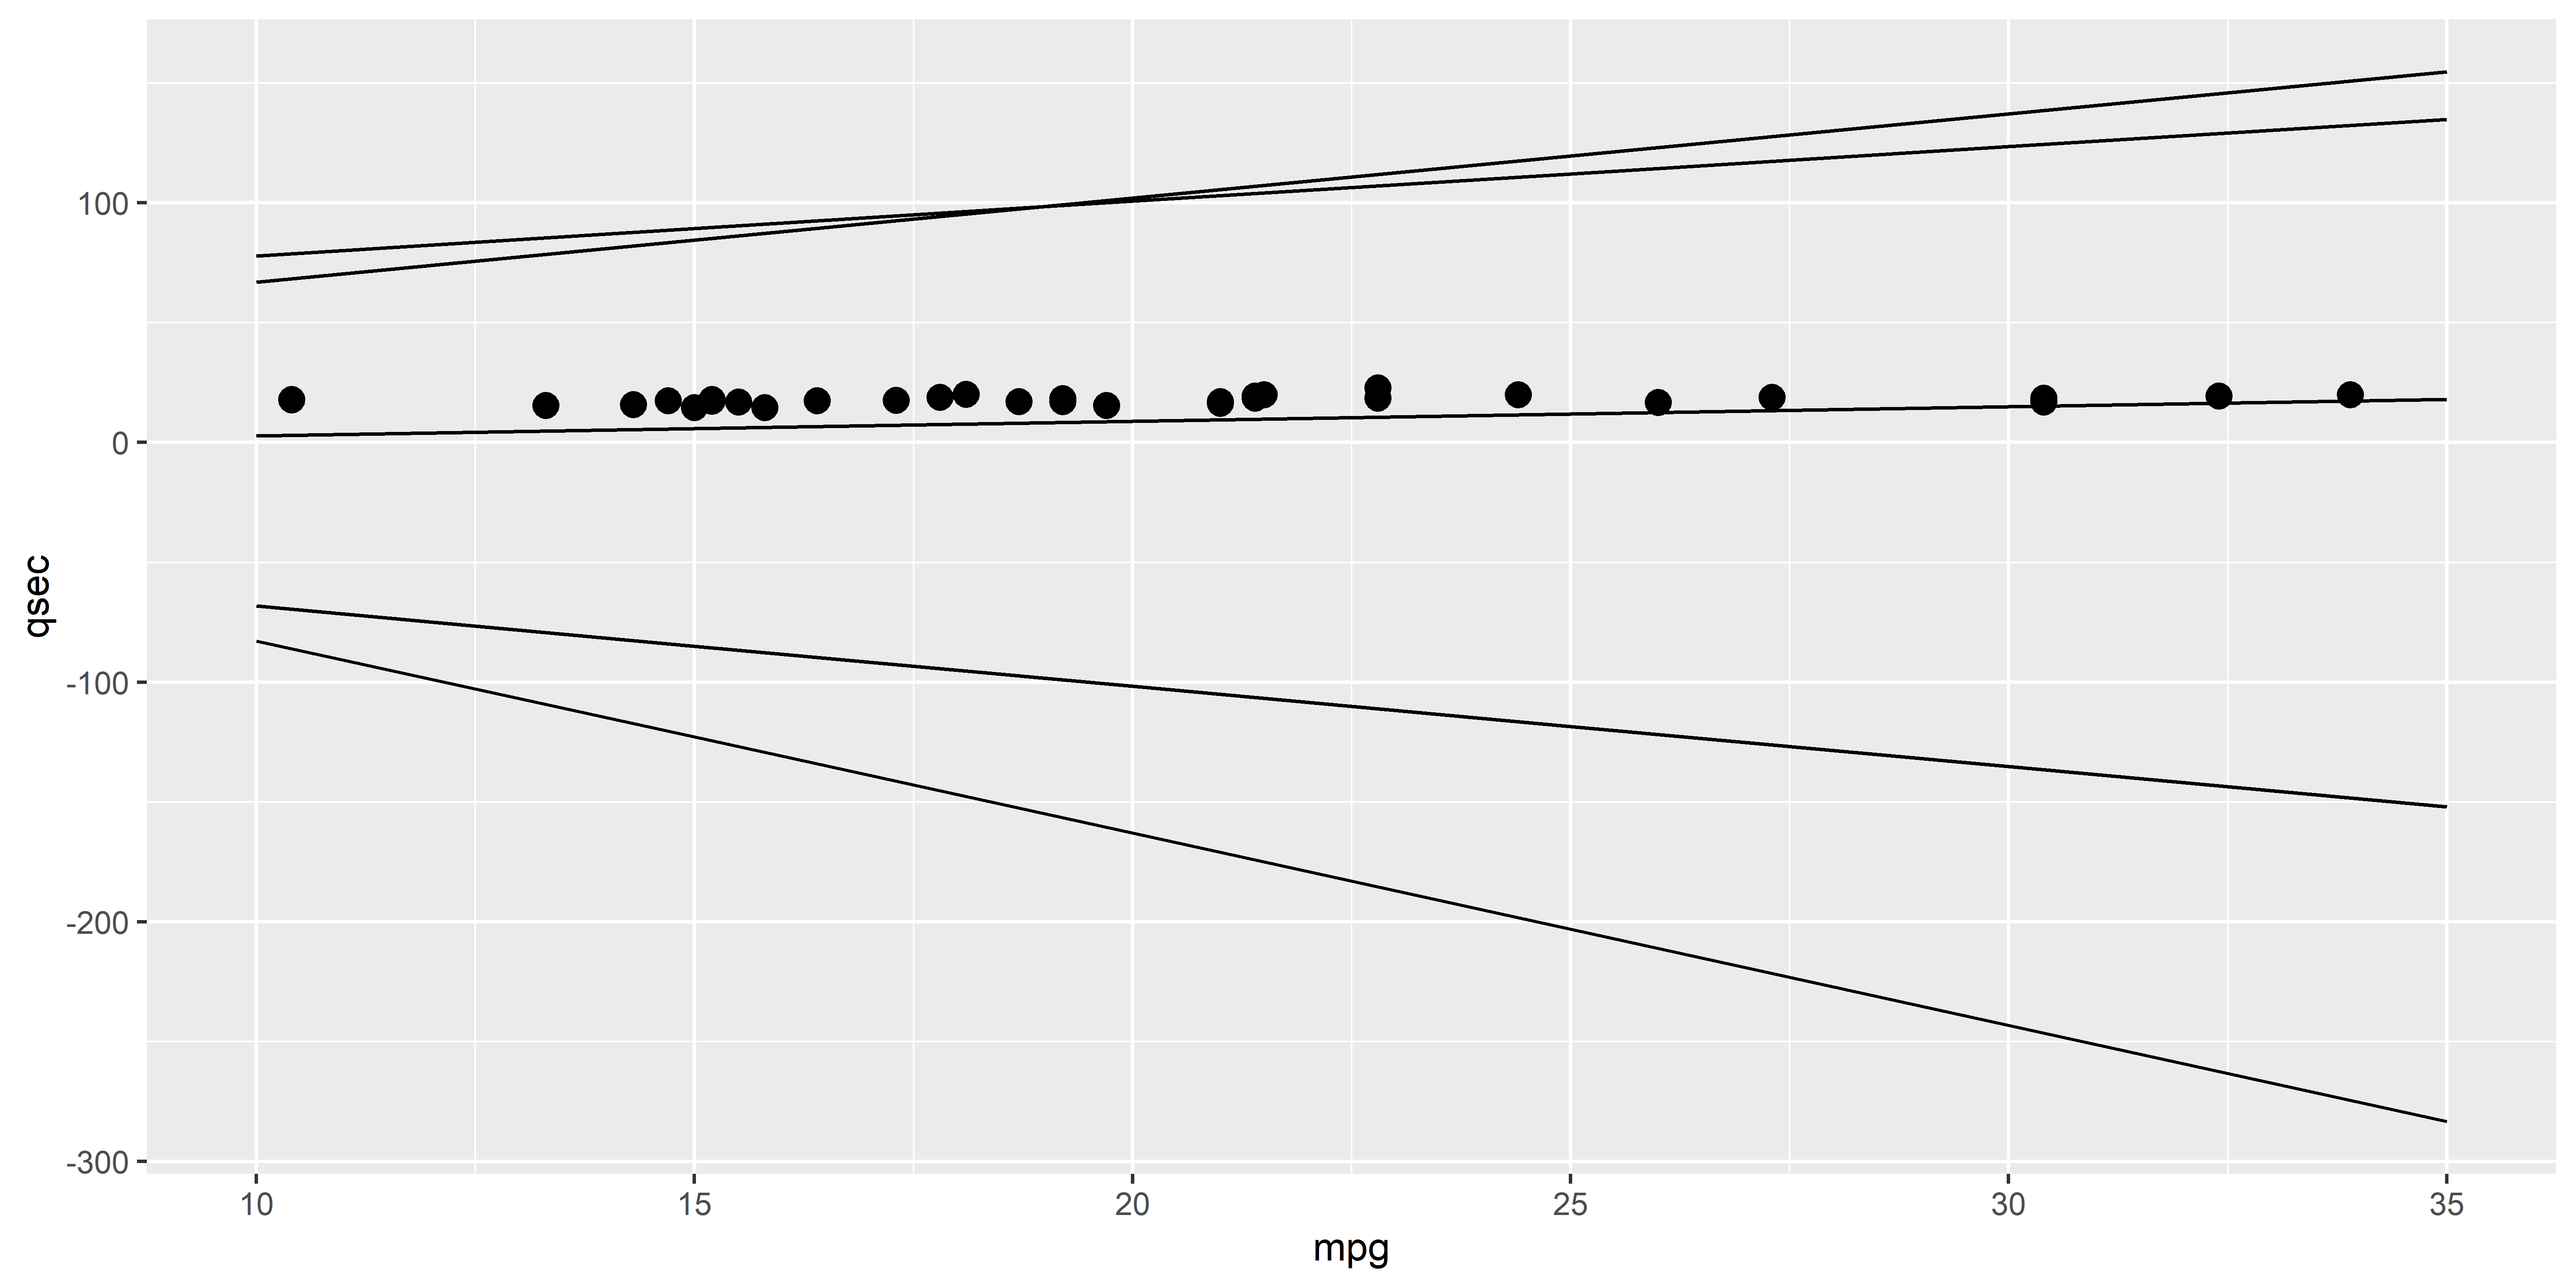
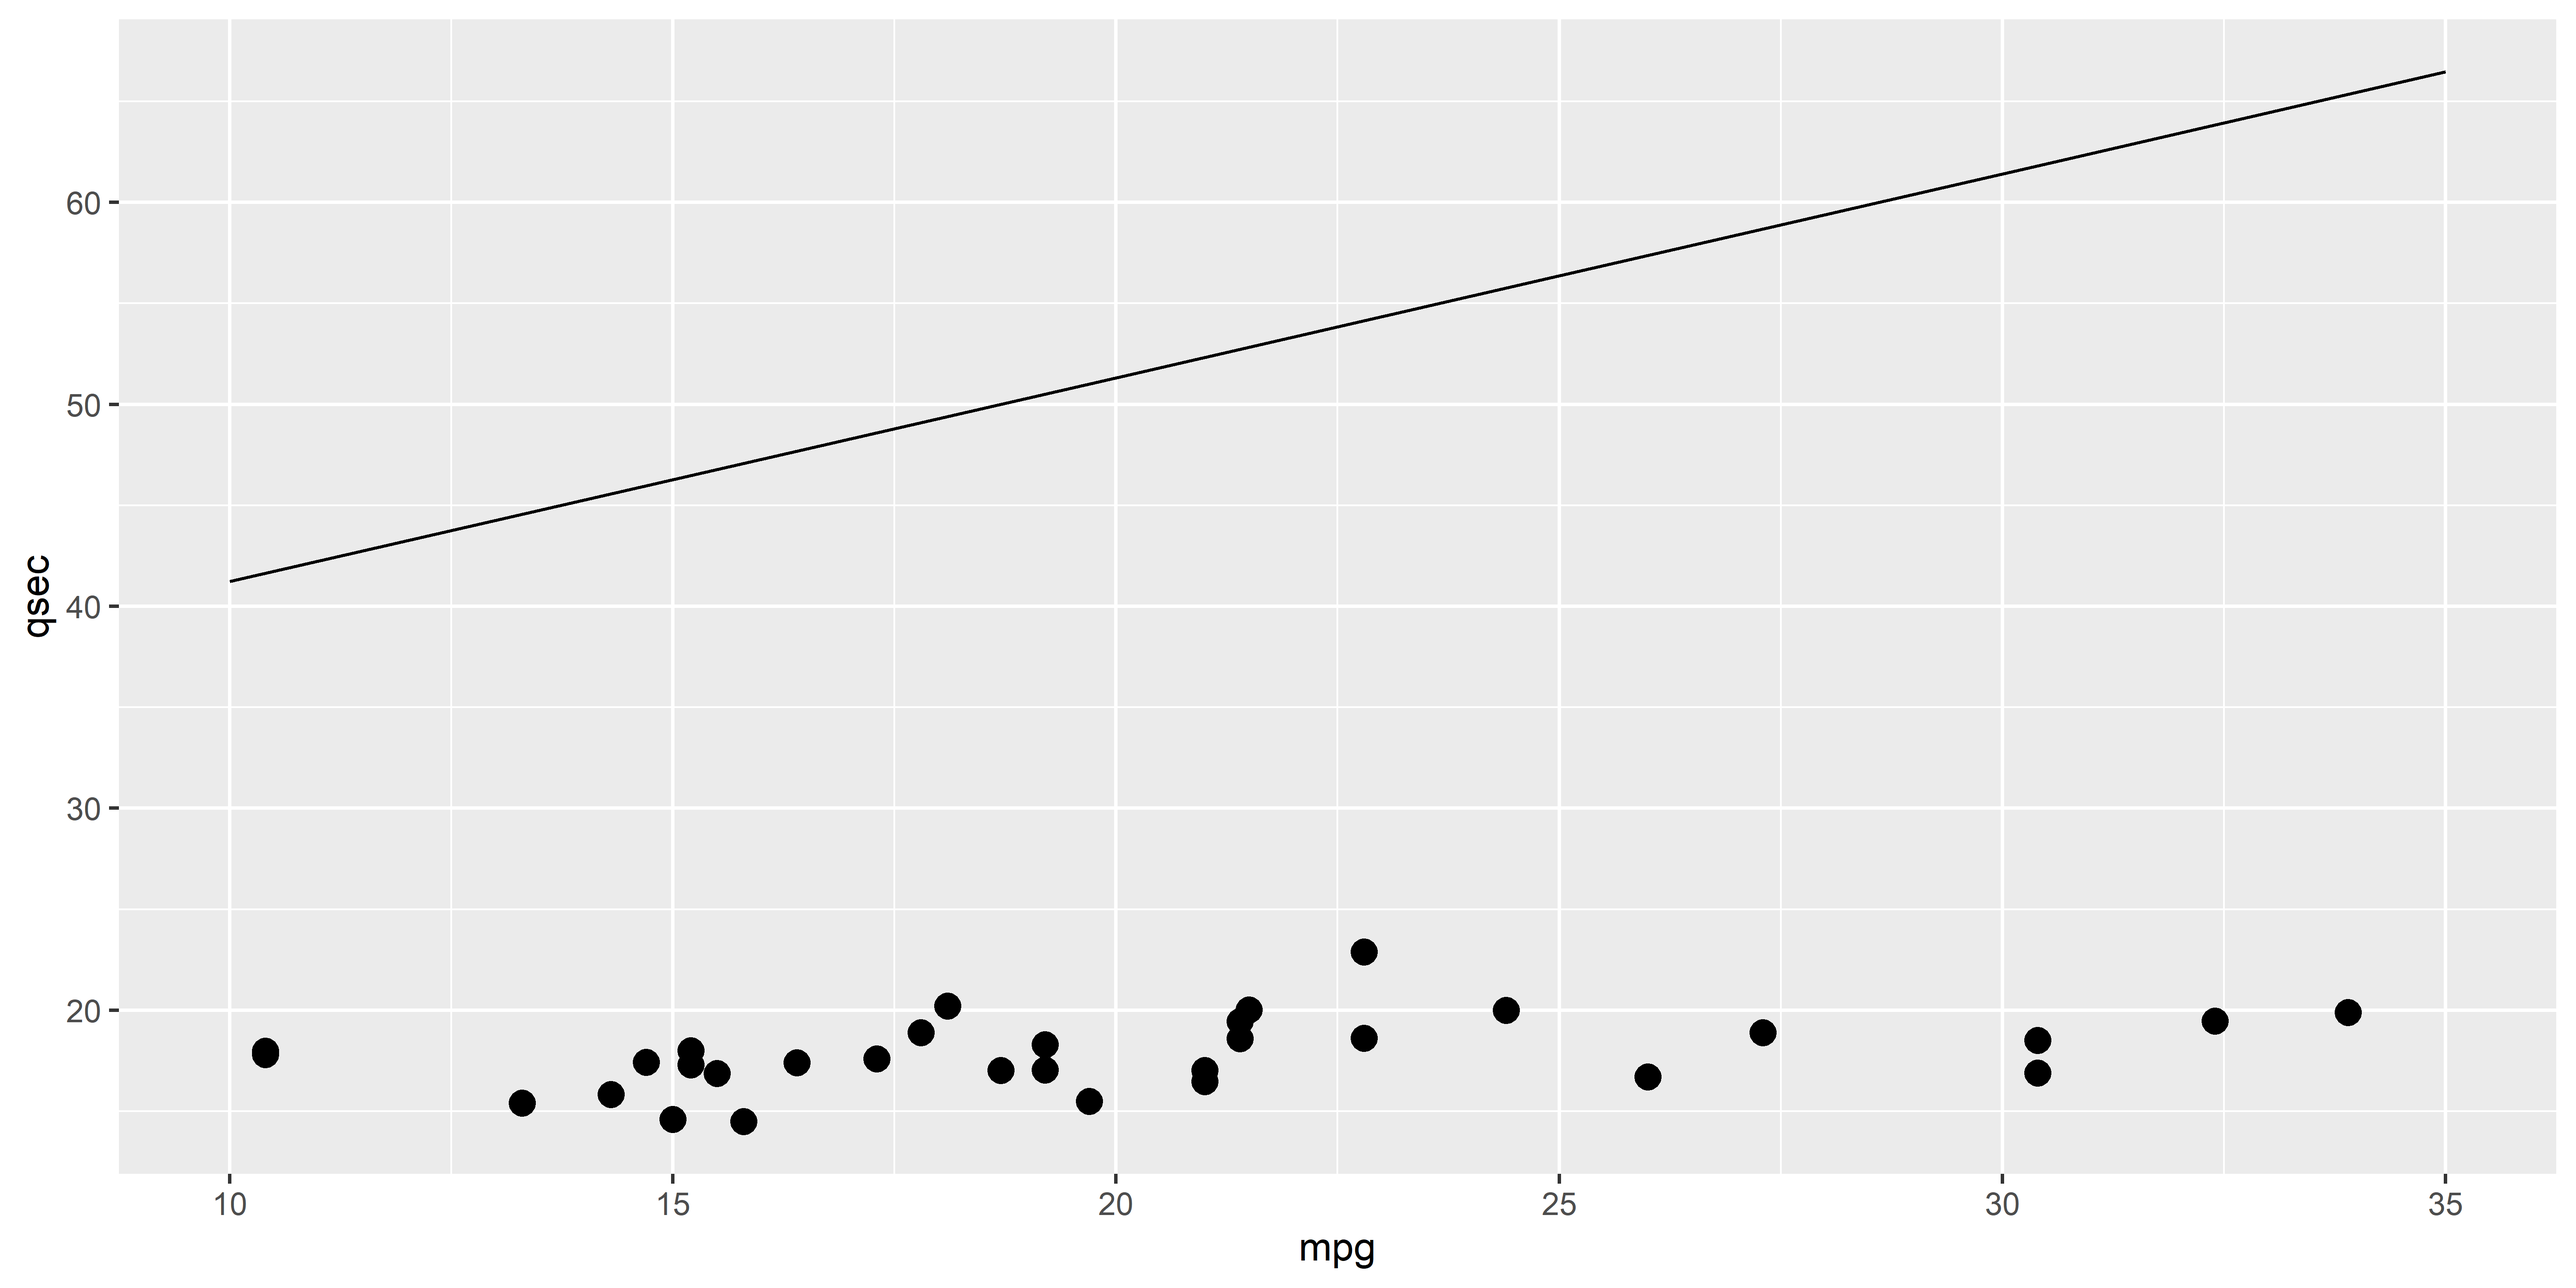
update

diff --git a/BayesianStatistics/2024/8_LinearModelsPriors/index.html b/BayesianStatistics/2024/8_LinearModelsPriors/index.html
@@ -1230,7 +1230,7 @@ sigma     |   1.68 | [1.33, 2.21] | 100% | 1.001 | 2972.00</code></pre>
 <li class="fragment">Intercept: <span class="math inline">\(Normal(17.85, 17.9)\)</span></li>
 <li class="fragment">Slope: <span class="math inline">\(Normal(0, 5)\)</span></li>
 </ul></li>
-<li class="fragment">How to we actually set them</li>
+<li class="fragment">How to actually set them?</li>
 </ul>
 <div class="fragment">
 <div class="cell">
@@ -1334,108 +1334,6 @@ sigma     |   1.68 | [1.33, 2.21] | 100% | 1.001 | 2972.00</code></pre>
 <span id="cb42-4"><a href="" aria-hidden="true" tabindex="-1"></a>  <span class="at">prior =</span> priors,</span>
 <span id="cb42-5"><a href="" aria-hidden="true" tabindex="-1"></a>  <span class="at">sample_prior=</span><span class="st">"only"</span></span>
 <span id="cb42-6"><a href="" aria-hidden="true" tabindex="-1"></a>)</span></code><button title="Copy to Clipboard" class="code-copy-button"><i class="bi"></i></button></pre></div>
-<div class="cell-output cell-output-stdout">
-<pre><code>
-SAMPLING FOR MODEL 'anon_model' NOW (CHAIN 1).
-Chain 1: 
-Chain 1: Gradient evaluation took 1.4e-05 seconds
-Chain 1: 1000 transitions using 10 leapfrog steps per transition would take 0.14 seconds.
-Chain 1: Adjust your expectations accordingly!
-Chain 1: 
-Chain 1: 
-Chain 1: Iteration:    1 / 2000 [  0%]  (Warmup)
-Chain 1: Iteration:  200 / 2000 [ 10%]  (Warmup)
-Chain 1: Iteration:  400 / 2000 [ 20%]  (Warmup)
-Chain 1: Iteration:  600 / 2000 [ 30%]  (Warmup)
-Chain 1: Iteration:  800 / 2000 [ 40%]  (Warmup)
-Chain 1: Iteration: 1000 / 2000 [ 50%]  (Warmup)
-Chain 1: Iteration: 1001 / 2000 [ 50%]  (Sampling)
-Chain 1: Iteration: 1200 / 2000 [ 60%]  (Sampling)
-Chain 1: Iteration: 1400 / 2000 [ 70%]  (Sampling)
-Chain 1: Iteration: 1600 / 2000 [ 80%]  (Sampling)
-Chain 1: Iteration: 1800 / 2000 [ 90%]  (Sampling)
-Chain 1: Iteration: 2000 / 2000 [100%]  (Sampling)
-Chain 1: 
-Chain 1:  Elapsed Time: 0.014 seconds (Warm-up)
-Chain 1:                0.013 seconds (Sampling)
-Chain 1:                0.027 seconds (Total)
-Chain 1: 
-
-SAMPLING FOR MODEL 'anon_model' NOW (CHAIN 2).
-Chain 2: 
-Chain 2: Gradient evaluation took 3e-06 seconds
-Chain 2: 1000 transitions using 10 leapfrog steps per transition would take 0.03 seconds.
-Chain 2: Adjust your expectations accordingly!
-Chain 2: 
-Chain 2: 
-Chain 2: Iteration:    1 / 2000 [  0%]  (Warmup)
-Chain 2: Iteration:  200 / 2000 [ 10%]  (Warmup)
-Chain 2: Iteration:  400 / 2000 [ 20%]  (Warmup)
-Chain 2: Iteration:  600 / 2000 [ 30%]  (Warmup)
-Chain 2: Iteration:  800 / 2000 [ 40%]  (Warmup)
-Chain 2: Iteration: 1000 / 2000 [ 50%]  (Warmup)
-Chain 2: Iteration: 1001 / 2000 [ 50%]  (Sampling)
-Chain 2: Iteration: 1200 / 2000 [ 60%]  (Sampling)
-Chain 2: Iteration: 1400 / 2000 [ 70%]  (Sampling)
-Chain 2: Iteration: 1600 / 2000 [ 80%]  (Sampling)
-Chain 2: Iteration: 1800 / 2000 [ 90%]  (Sampling)
-Chain 2: Iteration: 2000 / 2000 [100%]  (Sampling)
-Chain 2: 
-Chain 2:  Elapsed Time: 0.015 seconds (Warm-up)
-Chain 2:                0.011 seconds (Sampling)
-Chain 2:                0.026 seconds (Total)
-Chain 2: 
-
-SAMPLING FOR MODEL 'anon_model' NOW (CHAIN 3).
-Chain 3: 
-Chain 3: Gradient evaluation took 2e-06 seconds
-Chain 3: 1000 transitions using 10 leapfrog steps per transition would take 0.02 seconds.
-Chain 3: Adjust your expectations accordingly!
-Chain 3: 
-Chain 3: 
-Chain 3: Iteration:    1 / 2000 [  0%]  (Warmup)
-Chain 3: Iteration:  200 / 2000 [ 10%]  (Warmup)
-Chain 3: Iteration:  400 / 2000 [ 20%]  (Warmup)
-Chain 3: Iteration:  600 / 2000 [ 30%]  (Warmup)
-Chain 3: Iteration:  800 / 2000 [ 40%]  (Warmup)
-Chain 3: Iteration: 1000 / 2000 [ 50%]  (Warmup)
-Chain 3: Iteration: 1001 / 2000 [ 50%]  (Sampling)
-Chain 3: Iteration: 1200 / 2000 [ 60%]  (Sampling)
-Chain 3: Iteration: 1400 / 2000 [ 70%]  (Sampling)
-Chain 3: Iteration: 1600 / 2000 [ 80%]  (Sampling)
-Chain 3: Iteration: 1800 / 2000 [ 90%]  (Sampling)
-Chain 3: Iteration: 2000 / 2000 [100%]  (Sampling)
-Chain 3: 
-Chain 3:  Elapsed Time: 0.014 seconds (Warm-up)
-Chain 3:                0.012 seconds (Sampling)
-Chain 3:                0.026 seconds (Total)
-Chain 3: 
-
-SAMPLING FOR MODEL 'anon_model' NOW (CHAIN 4).
-Chain 4: 
-Chain 4: Gradient evaluation took 3e-06 seconds
-Chain 4: 1000 transitions using 10 leapfrog steps per transition would take 0.03 seconds.
-Chain 4: Adjust your expectations accordingly!
-Chain 4: 
-Chain 4: 
-Chain 4: Iteration:    1 / 2000 [  0%]  (Warmup)
-Chain 4: Iteration:  200 / 2000 [ 10%]  (Warmup)
-Chain 4: Iteration:  400 / 2000 [ 20%]  (Warmup)
-Chain 4: Iteration:  600 / 2000 [ 30%]  (Warmup)
-Chain 4: Iteration:  800 / 2000 [ 40%]  (Warmup)
-Chain 4: Iteration: 1000 / 2000 [ 50%]  (Warmup)
-Chain 4: Iteration: 1001 / 2000 [ 50%]  (Sampling)
-Chain 4: Iteration: 1200 / 2000 [ 60%]  (Sampling)
-Chain 4: Iteration: 1400 / 2000 [ 70%]  (Sampling)
-Chain 4: Iteration: 1600 / 2000 [ 80%]  (Sampling)
-Chain 4: Iteration: 1800 / 2000 [ 90%]  (Sampling)
-Chain 4: Iteration: 2000 / 2000 [100%]  (Sampling)
-Chain 4: 
-Chain 4:  Elapsed Time: 0.015 seconds (Warm-up)
-Chain 4:                0.016 seconds (Sampling)
-Chain 4:                0.031 seconds (Total)
-Chain 4: </code></pre>
-</div>
 </div>
 </div>
 </section>
@@ -1447,8 +1345,8 @@ Chain 4: </code></pre>
 </ul>
 <div class="fragment">
 <div class="cell">
-<div class="sourceCode cell-code" id="cb44"><pre class="sourceCode r code-with-copy"><code class="sourceCode r"><span id="cb44-1"><a href="" aria-hidden="true" tabindex="-1"></a>newdata <span class="ot">&lt;-</span> <span class="fu">data.frame</span>(<span class="at">mpg =</span> <span class="fu">seq</span>(<span class="dv">10</span>, <span class="dv">35</span>, <span class="at">length.out=</span><span class="dv">6</span>))</span>
-<span id="cb44-2"><a href="" aria-hidden="true" tabindex="-1"></a>newdata</span></code><button title="Copy to Clipboard" class="code-copy-button"><i class="bi"></i></button></pre></div>
+<div class="sourceCode cell-code" id="cb43"><pre class="sourceCode r code-with-copy"><code class="sourceCode r"><span id="cb43-1"><a href="" aria-hidden="true" tabindex="-1"></a>newdata <span class="ot">&lt;-</span> <span class="fu">data.frame</span>(<span class="at">mpg =</span> <span class="fu">seq</span>(<span class="dv">10</span>, <span class="dv">35</span>, <span class="at">length.out=</span><span class="dv">6</span>))</span>
+<span id="cb43-2"><a href="" aria-hidden="true" tabindex="-1"></a>newdata</span></code><button title="Copy to Clipboard" class="code-copy-button"><i class="bi"></i></button></pre></div>
 <div class="cell-output cell-output-stdout">
 <pre><code>  mpg
 1  10
@@ -1462,10 +1360,14 @@ Chain 4: </code></pre>
 </div>
 <div class="fragment">
 <div class="cell">
-<div class="sourceCode cell-code" id="cb46"><pre class="sourceCode r code-with-copy"><code class="sourceCode r"><span id="cb46-1"><a href="" aria-hidden="true" tabindex="-1"></a>pred <span class="ot">&lt;-</span> <span class="fu">get_predicted</span>(model_priors, <span class="at">data=</span>newdata, <span class="at">iterations=</span><span class="dv">250</span>) <span class="sc">|&gt;</span> </span>
-<span id="cb46-2"><a href="" aria-hidden="true" tabindex="-1"></a>  <span class="fu">as.data.frame</span>() <span class="sc">|&gt;</span> </span>
-<span id="cb46-3"><a href="" aria-hidden="true" tabindex="-1"></a>  <span class="fu">cbind</span>(newdata)</span>
-<span id="cb46-4"><a href="" aria-hidden="true" tabindex="-1"></a><span class="fu">nrow</span>(pred)</span></code><button title="Copy to Clipboard" class="code-copy-button"><i class="bi"></i></button></pre></div>
+<div class="sourceCode cell-code" id="cb45"><pre class="sourceCode r code-with-copy"><code class="sourceCode r"><span id="cb45-1"><a href="" aria-hidden="true" tabindex="-1"></a>pred <span class="ot">&lt;-</span> <span class="fu">get_predicted</span>(model_priors, <span class="at">data=</span>newdata, <span class="at">iterations=</span><span class="dv">250</span>) <span class="sc">|&gt;</span> </span>
+<span id="cb45-2"><a href="" aria-hidden="true" tabindex="-1"></a>  <span class="fu">as.data.frame</span>() <span class="sc">|&gt;</span> </span>
+<span id="cb45-3"><a href="" aria-hidden="true" tabindex="-1"></a>  <span class="fu">cbind</span>(newdata)</span></code><button title="Copy to Clipboard" class="code-copy-button"><i class="bi"></i></button></pre></div>
+</div>
+</div>
+<div class="fragment">
+<div class="cell">
+<div class="sourceCode cell-code" id="cb46"><pre class="sourceCode r code-with-copy"><code class="sourceCode r"><span id="cb46-1"><a href="" aria-hidden="true" tabindex="-1"></a><span class="fu">nrow</span>(pred)</span></code><button title="Copy to Clipboard" class="code-copy-button"><i class="bi"></i></button></pre></div>
 <div class="cell-output cell-output-stdout">
 <pre><code>[1] 6</code></pre>
 </div>
@@ -1532,7 +1434,7 @@ Chain 4: </code></pre>
 <li class="fragment">Each iteration represents one possibility of model parameters</li>
 <li class="fragment">More plausible possibilities will appear more frequently</li>
 <li class="fragment">In our case, this means that we have one line (Intercept + Slope) for each iteration</li>
-<li class="fragment">We can visualize these various lines, that corresponds to possibilities emerging from our prior parameters (i.e;, before seeing the data)</li>
+<li class="fragment">We can visualize these various lines, that corresponds to possibilities emerging from our prior parameters (i.e., before seeing the data)</li>
 </ul>
 </section>
 <section id="prior-predictive-check---relationship" class="slide level2">
@@ -1545,7 +1447,7 @@ Chain 4: </code></pre>
 <div class="cell-output-display">
 <div>
 <figure>
-<p><img data-src="index_files/figure-revealjs/unnamed-chunk-38-1.png" width="3000"></p>
+<p><img data-src="index_files/figure-revealjs/unnamed-chunk-40-1.png" width="3000"></p>
 </figure>
 </div>
 </div>
@@ -1557,7 +1459,7 @@ Chain 4: </code></pre>
 <div class="cell-output-display">
 <div>
 <figure>
-<p><img data-src="index_files/figure-revealjs/unnamed-chunk-39-1.png" width="3000"></p>
+<p><img data-src="index_files/figure-revealjs/unnamed-chunk-41-1.png" width="3000"></p>
 </figure>
 </div>
 </div>
@@ -1574,7 +1476,7 @@ Chain 4: </code></pre>
 <div class="cell-output-display">
 <div>
 <figure>
-<p><img data-src="index_files/figure-revealjs/unnamed-chunk-40-1.png" width="3000"></p>
+<p><img data-src="index_files/figure-revealjs/unnamed-chunk-42-1.png" width="3000"></p>
 </figure>
 </div>
 </div>
@@ -1584,7 +1486,7 @@ Chain 4: </code></pre>
 <section id="reshaping-iterations" class="slide level2">
 <h2>Reshaping iterations</h2>
 <ul>
-<li class="fragment">We can reshape the dataframe (pivot longer) to have one column for all iterations and another to identify the iteration number</li>
+<li class="fragment">We can reshape the dataframe (pivot into longer format) to have one column for all iterations and another to identify the iteration number</li>
 </ul>
 <div class="fragment">
 <div class="cell">
@@ -1592,12 +1494,12 @@ Chain 4: </code></pre>
 <span id="cb55-2"><a href="" aria-hidden="true" tabindex="-1"></a><span class="fu">head</span>(pred)</span></code><button title="Copy to Clipboard" class="code-copy-button"><i class="bi"></i></button></pre></div>
 <div class="cell-output cell-output-stdout">
 <pre><code>  Predicted mpg iter_index iter_group iter_value
-1  17.04352  10          1          1  16.899598
-2  17.49789  15          2          1  12.207235
-3  17.95225  20          3          1   7.514872
-4  18.40661  25          4          1   2.822509
-5  18.86098  30          5          1  -1.869854
-6  19.31534  35          6          1  -6.562217</code></pre>
+1  16.91122  10          1          1   41.22650
+2  16.38351  15          2          1   46.27231
+3  15.85580  20          3          1   51.31811
+4  15.32809  25          4          1   56.36392
+5  14.80038  30          5          1   61.40972
+6  14.27267  35          6          1   66.45553</code></pre>
 </div>
 </div>
 </div>
@@ -1615,7 +1517,7 @@ Chain 4: </code></pre>
 <div class="cell-output-display">
 <div>
 <figure>
-<p><img data-src="index_files/figure-revealjs/unnamed-chunk-42-1.png" width="3000"></p>
+<p><img data-src="index_files/figure-revealjs/unnamed-chunk-44-1.png" width="3000"></p>
 </figure>
 </div>
 </div>
@@ -1644,12 +1546,12 @@ Chain 4: </code></pre>
 <span id="cb58-5"><a href="" aria-hidden="true" tabindex="-1"></a><span class="fu">head</span>(pred)</span></code><button title="Copy to Clipboard" class="code-copy-button"><i class="bi"></i></button></pre></div>
 <div class="cell-output cell-output-stdout">
 <pre><code>  Predicted iter_index iter_group iter_value
-1 10.027735          1          1  -89.22534
-2 10.027735          2          1  -89.22534
-3  9.667275          3          1  -98.66967
-4  9.947633          4          1  -91.32408
-5 10.488324          5          1  -77.15758
-6 10.608477          6          1  -74.00947</code></pre>
+1  16.40507          1          1  -73.97298
+2  16.40507          2          1  -73.97298
+3  16.34220          3          1  -83.88313
+4  16.39110          4          1  -76.17524
+5  16.48541          5          1  -61.31002
+6  16.50636          6          1  -58.00664</code></pre>
 </div>
 </div>
 </div>
@@ -1662,7 +1564,7 @@ Chain 4: </code></pre>
 <div class="cell-output-display">
 <div>
 <figure>
-<p><img data-src="index_files/figure-revealjs/unnamed-chunk-44-1.png" width="3000"></p>
+<p><img data-src="index_files/figure-revealjs/unnamed-chunk-46-1.png" width="3000"></p>
 </figure>
 </div>
 </div>
@@ -1676,7 +1578,7 @@ Chain 4: </code></pre>
 <li class="fragment">Run posterior predictive checks. Try to obtain a plot that looks like this:</li>
 </ul>
 
-<img data-src="index_files/figure-revealjs/unnamed-chunk-45-1.png" width="3000" class="r-stretch"></section>
+<img data-src="index_files/figure-revealjs/unnamed-chunk-47-1.png" width="3000" class="r-stretch"></section>
 <section id="the-art-of-priors" class="slide level2 scrollable">
 <h2>The Art of Priors</h2>
 <p>Prior choice can depend on:</p>
@@ -1712,7 +1614,7 @@ Chain 4: </code></pre>
 <li class="fragment">In general, don’t panic and follow the rule of “good enough”
 <ul>
 <li class="fragment">If you have reasons to care about priors (e.g., complex models, convergence issues, having ideas about priors), then it’s worth spending time to think about them</li>
-<li class="fragment">If not, go with the default / flat / very weakly informative priors.</li>
+<li class="fragment">If not, going with the default / flat / very weakly informative priors is fine</li>
 <li class="fragment">But don’t forget to assess the convergence of the model (e.g., MCMC sampling process) to make sure the posterior has been well explored…</li>
 </ul></li>
 </ul>
